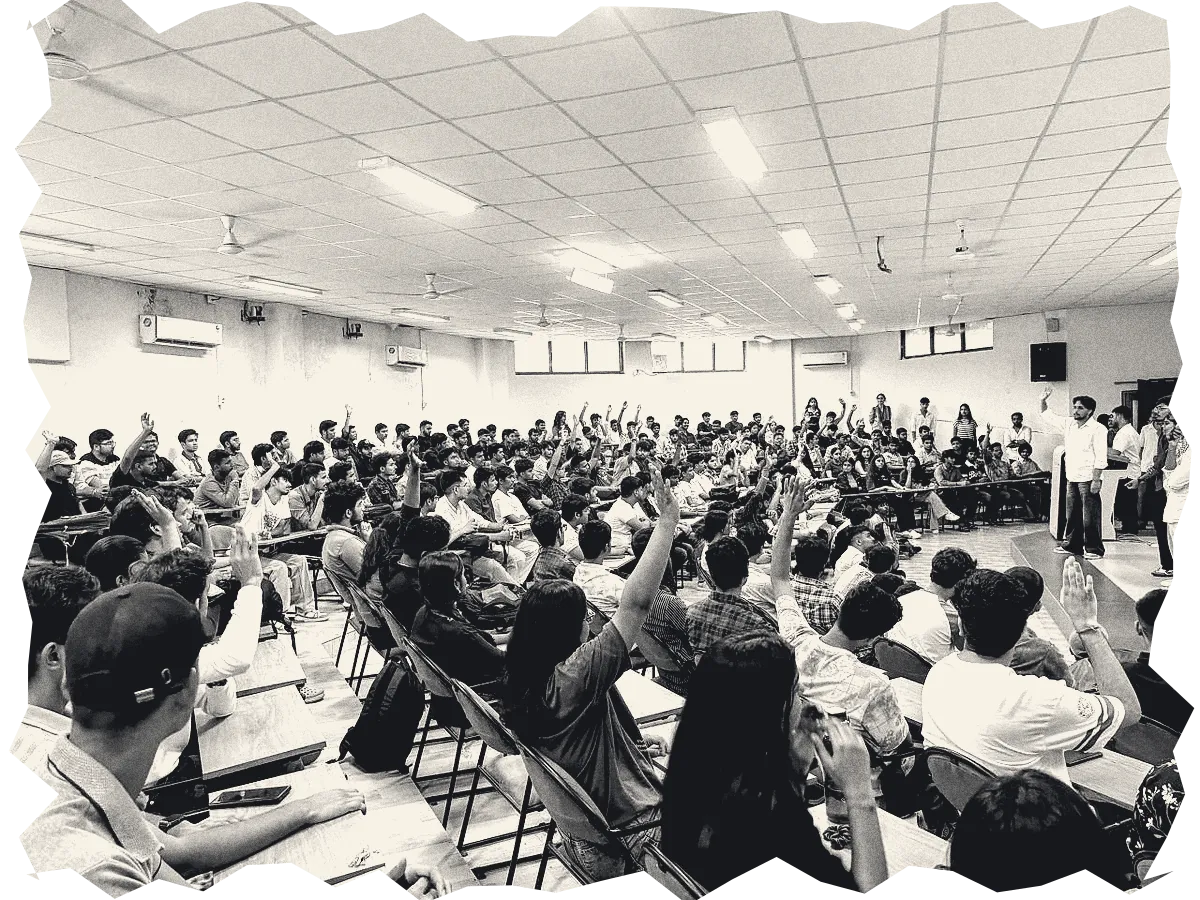
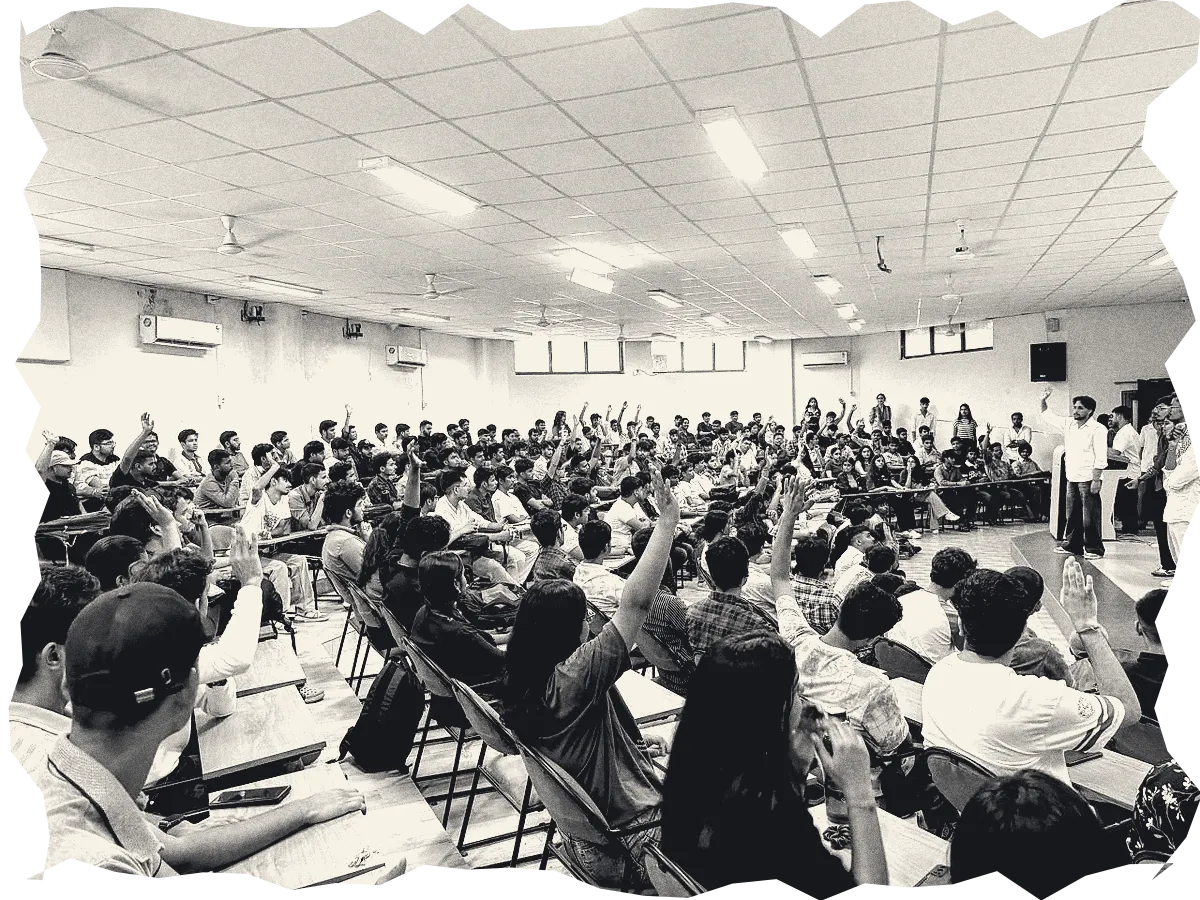
fix(photos): finish the SANGAM launch rename so the build passes
Keeps Mayank's correction (the 200+ hall photo is SANGAM's launch, PyVerse
is DevGrowth's) and fixes what stopped it building or would have broken it
in production:

- Lint: drop the unused REGISTRATION_URL_IS_PLACEHOLDER import and the
  commented-out note it belonged to.
- 'SANGAM-launch' slug -> 'sangam-launch'. Paths are case-sensitive on
  Linux and Vercel, so the uppercase slug would 404.
- The speaker-with-the-SANGAM-logo photo was 'sangam-launch!'. It is now
  'sangam-launch-stage', and the hero's second cutout points at it again
  (both cutouts were showing the hall photo).
- Regenerated both through npm run photos, so manifest.json dimensions
  match the files (the hall photo was being drawn at the stage photo's
  portrait size). Source file renamed to match. Alt text no longer says
  DevGrowth.

diff --git a/ananta-site/content/photos.ts b/ananta-site/content/photos.ts
@@ -22,9 +22,9 @@ export type Photo = {
 
 export const PHOTOS: Record<string, Photo> = {
   'sangam-launch': {
-    slug: 'SANGAM-launch',
+    slug: 'sangam-launch',
     caption: 'SANGAM launch · 200+ in the room',
-    alt: 'A packed lecture hall at the DevGrowth launch, most of the audience with their hands raised.',
+    alt: 'A packed lecture hall at the SANGAM launch, most of the audience with their hands raised.',
     club: 'sangam',
   },
   'ai-stack': {
@@ -69,8 +69,8 @@ export const PHOTOS: Record<string, Photo> = {
     alt: "Winners holding their certificates at EKATVA '26.",
     club: 'smvdu',
   },
-  'sangam-launch!': {
-    slug: 'sangam-launch',
+  'sangam-launch-stage': {
+    slug: 'sangam-launch-stage',
     caption: 'SANGAM launch',
     alt: 'A speaker beside a screen showing the SANGAM logo at the community launch.',
     club: 'sangam',

diff --git a/ananta-site/app/register/page.tsx b/ananta-site/app/register/page.tsx
@@ -8,7 +8,6 @@ import {
   EVENT,
   REGISTRATION,
   REGISTRATION_URL,
-  REGISTRATION_URL_IS_PLACEHOLDER,
   TEAM_RULES,
 } from '@/content/event';
 
@@ -73,14 +72,6 @@ export default function Register() {
               <p className={styles.announce}>
                 Teams are announced by {REGISTRATION.teamsAnnouncedBy}.
               </p>
-
-              {/* {REGISTRATION_URL_IS_PLACEHOLDER && (
-                // <p className={styles.placeholder} role="note">
-                //   <strong>Setup note:</strong> this button still points at the
-                //   placeholder. Set <code>NEXT_PUBLIC_REGISTRATION_URL</code> to the
-                //   approved form before launch.
-                // </p>
-              )} */}
             </div>
 
             <div className={styles.before}>

diff --git a/ananta-site/components/Hero.tsx b/ananta-site/components/Hero.tsx
@@ -51,7 +51,7 @@ export function Hero() {
           className={`${styles.photo} ${styles.photoLeft}`}
         />
         <Cutout
-          slug="sangam-launch"
+          slug="sangam-launch-stage"
           sizes="(min-width: 64rem) 20vw, (min-width: 48rem) 28vw, 42vw"
           rotate={-2.5}
           tape={['bl']}
